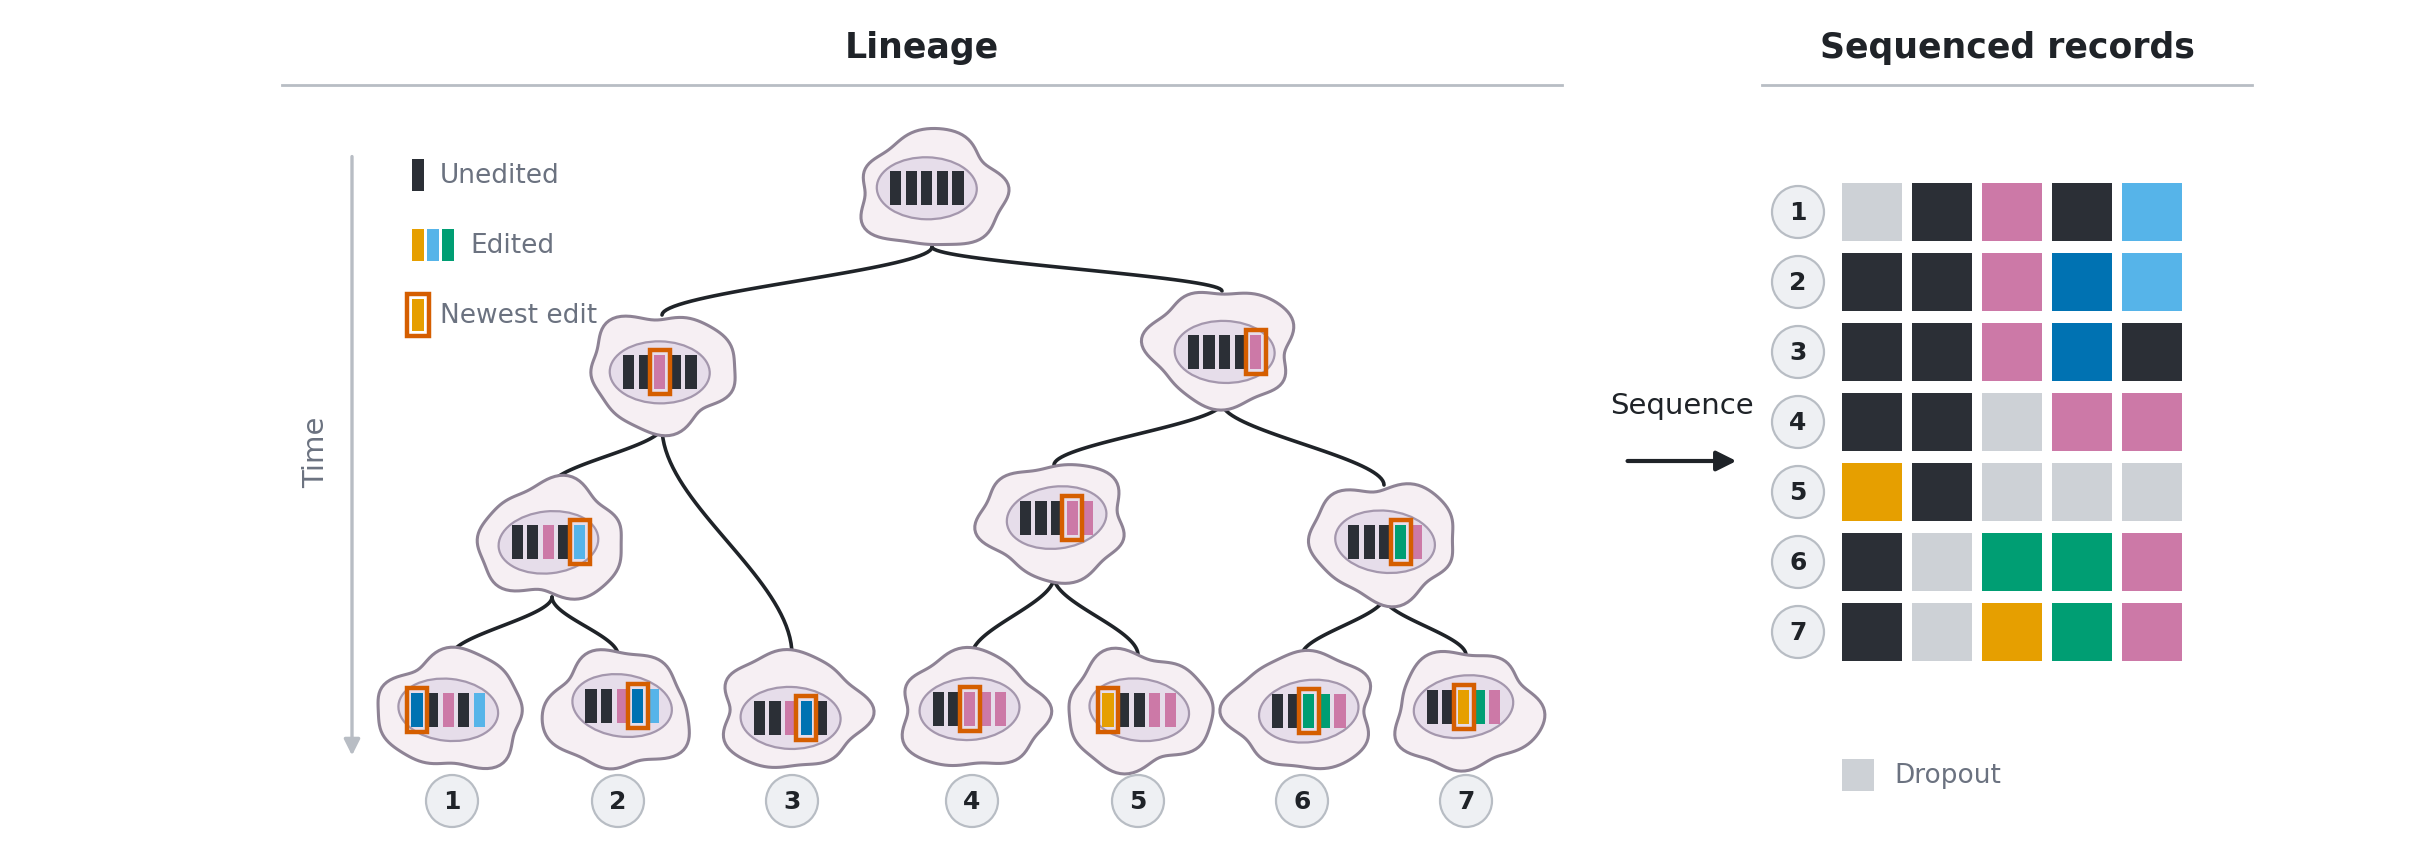
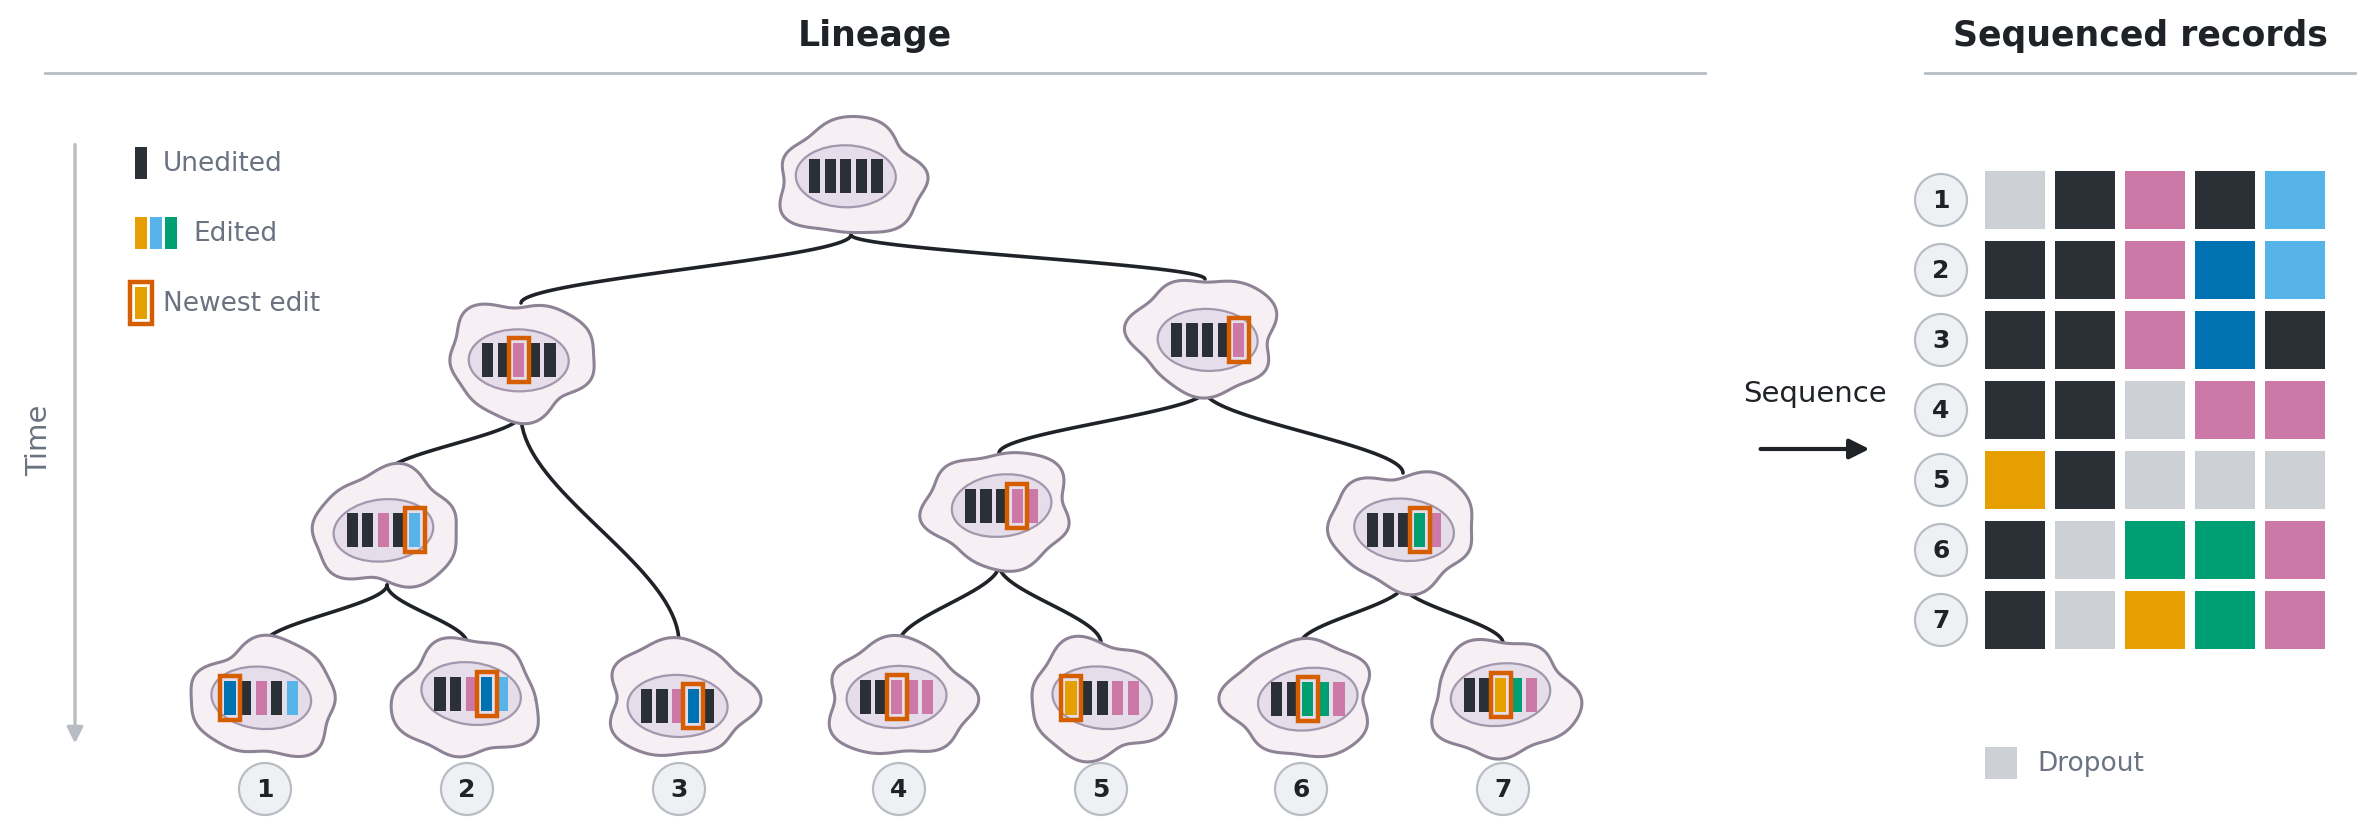
Crop figures to their drawn pixels; spread part 1 across the full width

diff --git a/bin/make_research_art.py b/bin/make_research_art.py
@@ -83,9 +83,21 @@ def canvas():
 def save(fig, name):
     if name == "fate.png" and os.environ.get("FATE_OUT"):
         name = os.environ["FATE_OUT"]
-    # cropped to the drawn content with one fixed margin, so every figure spans the page width alike
-    fig.savefig(os.path.join(OUT, name), dpi=DPI, facecolor="white", bbox_inches="tight", pad_inches=0.06)
+    path = os.path.join(OUT, name)
+    fig.savefig(path, dpi=DPI, facecolor="white")
     plt.close(fig)
+    crop_to_ink(path)
+
+
+def crop_to_ink(path, pad=24):
+    """Crop a saved figure to its drawn pixels plus one fixed margin, so every figure's content spans
+    the full width it is shown at."""
+    from PIL import Image
+    im = Image.open(path).convert("RGB")
+    a = np.asarray(im).astype(int)
+    ink = np.where((a < 245).any(axis=2))
+    y0, y1, x0, x1 = ink[0].min(), ink[0].max(), ink[1].min(), ink[1].max()
+    im.crop((max(0, x0 - pad), max(0, y0 - pad), min(im.width, x1 + pad), min(im.height, y1 + pad))).save(path)
 
 
 def badge(ax, x, y, n, r=0.13):
@@ -123,15 +135,15 @@ TIPY = 0.6
 
 # ---------------- the tree ----------------
 TREE = {
-    "r": (4.60, 3.2, ["A", "B"]),
-    "A": (3.25, 2.3, ["A1", "t3"]),
-    "A1": (2.70, 1.45, ["t1", "t2"]),
-    "B": (6.05, 2.42, ["B1", "B2"]),
-    "B1": (5.21, 1.55, ["t4", "t5"]),
-    "B2": (6.86, 1.45, ["t6", "t7"]),
+    "r": (4.33, 3.2, ["A", "B"]),
+    "A": (2.68, 2.3, ["A1", "t3"]),
+    "A1": (2.01, 1.45, ["t1", "t2"]),
+    "B": (6.10, 2.42, ["B1", "B2"]),
+    "B1": (5.07, 1.55, ["t4", "t5"]),
+    "B2": (7.09, 1.45, ["t6", "t7"]),
 }
 TIPS = ["t1", "t2", "t3", "t4", "t5", "t6", "t7"]
-TIPX = dict(zip(TIPS, [2.2, 3.03, 3.9, 4.8, 5.63, 6.45, 7.27]))
+TIPX = dict(zip(TIPS, [1.40, 2.41, 3.47, 4.57, 5.58, 6.58, 7.59]))
 
 
 def cell(x, y, sites, new=None, rx=0.36, ry=0.29, seed=0):
@@ -184,10 +196,10 @@ def grow(name, sites, new, seed):
 grow("r", [None] * NSITE, None, 1)
 for i, t in enumerate(TIPS):
     badge(ax, TIPX[t], TIPY - 0.45, i + 1)
-ax.add_patch(FancyArrowPatch((1.7, 3.4), (1.7, 0.35), arrowstyle="-|>", mutation_scale=12, color=GREY, lw=1.2))
-text(ax, 1.52, 1.9, "Time", fontsize=10.5, rotation=90)
+ax.add_patch(FancyArrowPatch((0.45, 3.4), (0.45, 0.35), arrowstyle="-|>", mutation_scale=12, color=GREY, lw=1.2))
+text(ax, 0.27, 1.9, "Time", fontsize=10.5, rotation=90)
 # the tree's key sits with the tree, in the space beside the root
-KX, KY = 2.0, 3.28
+KX, KY = 0.75, 3.28
 ax.add_patch(Rectangle((KX, KY - 0.08), 0.06, 0.16, fc=UNEDITED, ec="none"))
 text(ax, KX + 0.14, KY, "Unedited", fontsize=9.5, ha="left")
 for j, c in enumerate(ALLELES[:3]):
@@ -198,9 +210,9 @@ ax.add_patch(Rectangle((KX - 0.025, KY - 0.805), 0.11, 0.21, fc="none", ec=NEW, 
 text(ax, KX + 0.14, KY - 0.7, "Newest edit", fontsize=9.5, ha="left")
 
 # ---------------- sequencing ----------------
-ax.add_patch(FancyArrowPatch((8.05, 1.85), (8.65, 1.85), arrowstyle="-|>", mutation_scale=15, color=INK, lw=1.5))
-text(ax, 8.35, 2.13, "Sequence", fontsize=10.5, color=INK)
-MX, MY, cw, ch = 9.15, 2.95, 0.3, 0.29
+ax.add_patch(FancyArrowPatch((8.85, 1.85), (9.45, 1.85), arrowstyle="-|>", mutation_scale=15, color=INK, lw=1.5))
+text(ax, 9.15, 2.13, "Sequence", fontsize=10.5, color=INK)
+MX, MY, cw, ch = 10.0, 2.95, 0.3, 0.29
 for i, t in enumerate(TIPS):
     y = MY - i * (ch + 0.06)
     badge(ax, MX - 0.22, y + ch / 2, i + 1)
@@ -209,8 +221,8 @@ for i, t in enumerate(TIPS):
         if rng.random() < 0.2:
             c = DROPOUT                                        # the readout failed at this site
         ax.add_patch(Rectangle((MX + s * (cw + 0.05), y), cw, ch, fc=c, ec="none", zorder=3))
-header(ax, 1.35, 7.75, H - 0.18, "Lineage")
-header(ax, 8.75, 11.2, H - 0.18, "Sequenced records")
+header(ax, 0.3, 8.6, H - 0.18, "Lineage")
+header(ax, 9.7, 11.85, H - 0.18, "Sequenced records")
 ax.add_patch(Rectangle((MX, 0.2), 0.16, 0.16, fc=DROPOUT, ec="none"))
 text(ax, MX + 0.26, 0.28, "Dropout", fontsize=9.5, ha="left")
 save(fig, "lineage.png")
@@ -539,6 +551,7 @@ for ca, cb in zip(CENT, CENT[1:]):
     for j in range(len(STATES)):
         ax.plot([ca[j][0], cb[j][0]], [ca[j][1], cb[j][1]], color=MUTED, lw=0.9, ls=(0, (3, 2)), zorder=10)
 header(ax, 6.85, 11.9, H3 - 0.18, "Mapped cell states")
-fig.savefig(os.path.join(OUT, "transfer.png"), dpi=DPI, facecolor="white", bbox_inches="tight", pad_inches=0.06)
+fig.savefig(os.path.join(OUT, "transfer.png"), dpi=DPI, facecolor="white")
+crop_to_ink(os.path.join(OUT, "transfer.png"))
 plt.close(fig)
 print("wrote", sorted(os.listdir(OUT)))
